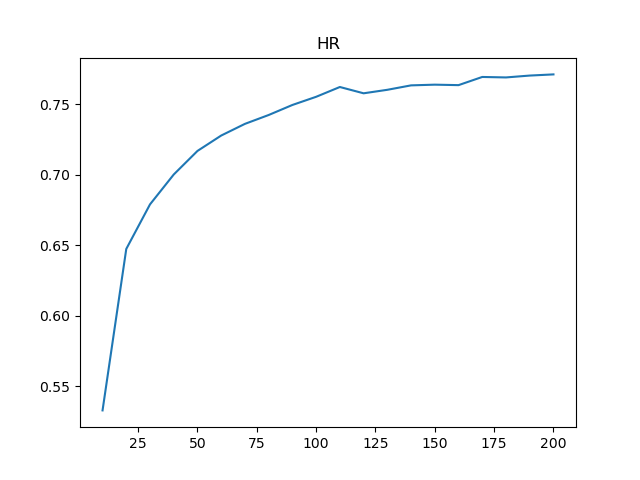
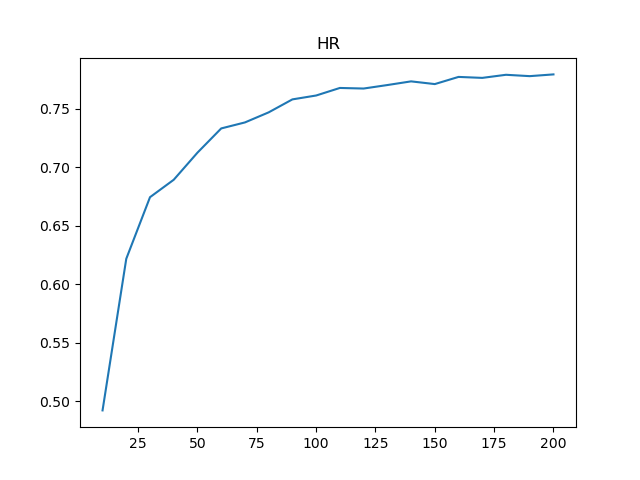
修正main方法和utils中的evaluate方法

diff --git a/model.py b/model.py
@@ -33,21 +33,18 @@ class SASRec(nn.Module):
         # 以下分别是多头注意力机制和FFN的layerNorm、dropout和layer
         self.layerNorm_of_multi_head_attention_layers = nn.ModuleList()
         self.multi_head_attention_layers = nn.ModuleList()
-        self.dropout_of_multi_head_attention_layers = nn.ModuleList()
 
         self.layerNorm_of_FFN_layers = nn.ModuleList()
         self.FFN_layers = nn.ModuleList()
-        self.dropout_of_FFN_layers = nn.ModuleList()
 
+        self.drop = nn.Dropout(dropout_rate)
         # 根据块的数量构建block
         for _ in range(num_of_blocks):
             self.layerNorm_of_multi_head_attention_layers.append(nn.LayerNorm(hidden_units, eps=1e-8))
             self.multi_head_attention_layers.append(nn.MultiheadAttention(hidden_units, num_of_heads, dropout_rate))
-            self.dropout_of_multi_head_attention_layers.append(nn.Dropout(dropout_rate))
 
             self.layerNorm_of_FFN_layers.append(nn.LayerNorm(hidden_units, eps=1e-8))
             self.FFN_layers.append(FFN(hidden_units, dropout_rate))
-            self.dropout_of_FFN_layers.append(nn.Dropout(dropout_rate))
 
     def sasRecBlock(self, i, inputs, attention_mask):
         # 根据原论文构建sasRecBlock
@@ -56,14 +53,14 @@ class SASRec(nn.Module):
         inputs_norm = self.layerNorm_of_multi_head_attention_layers[i](inputs)
         attention_output, _ = self.multi_head_attention_layers[i](inputs_norm, inputs, inputs,
                                                                   attn_mask=attention_mask)
-        attention_output = self.dropout_of_multi_head_attention_layers[i](attention_output)
+        attention_output = self.drop(attention_output)
         # residual connection 残差连接
         attention_output += inputs
 
         # 先进行layerNorm然后再进行FFN最后再进行dropout
         inputs_norm = self.layerNorm_of_FFN_layers[i](attention_output)
         outputs = self.FFN_layers[i](inputs_norm)
-        outputs = self.dropout_of_FFN_layers[i](outputs)
+        outputs = self.drop(outputs)
         # residual connection 残差连接
         outputs += attention_output
         outputs = torch.transpose(outputs, 0, 1)
@@ -119,4 +116,3 @@ class SASRec(nn.Module):
         # 根据原论文的预测公式进行预测
         predictions = final_feat.matmul(item_embs)
         return predictions
-

diff --git a/utils.py b/utils.py
@@ -1,3 +1,4 @@
+import copy
 import random
 import numpy as np
 from collections import defaultdict
@@ -47,9 +48,9 @@ def evaluate(model, dataset, sequence_length, isvalid=False):
 
     for u in users:
         # 判断是验证集还是测试集,如果训练集没有数据则跳过，如果验证集或者测试集没有数据则跳过
-        if isvalid and (len(train[u]) < 1 or len(test[u]) < 1):
+        if isvalid and (len(train[u]) < 1 or len(valid[u]) < 1):
             continue
-        elif not isvalid and (len(train[u]) < 1 or len(valid[u]) < 1):
+        elif not isvalid and (len(train[u]) < 1 or len(test[u]) < 1):
             continue
 
         # 初始化序列 根据原论文 如果真实交互的序列未达到指定步长，要使用填充项，即0进行填充 例如seq = [0,0,0,0,0,0,0,0,0,0,0,0,0,0,0,item]
@@ -70,8 +71,11 @@ def evaluate(model, dataset, sequence_length, isvalid=False):
 
         # 取出训练集中的物品交互序列
         rated = set(train[u])
-        # 将测试集中的物品加入到候选物品集中
-        item_idx = [test[u][0]]
+        # 将物品加入到候选物品集中
+        if isvalid:
+            item_idx = [valid[u][0]]
+        else:
+            item_idx = [test[u][0]]
 
         # 在这里模仿pmixer的代码根据100个数量 选择候选物品集
         for _ in range(100):

diff --git a/main.py b/main.py
@@ -1,4 +1,6 @@
 import time
+
+import numpy as np
 import torch
 from model import SASRec
 from utils import *
@@ -63,7 +65,7 @@ if __name__ == '__main__':
     batch_size = 128
     epochs = 200
     hidden_units = 50
-    dropout_rate = 0.3
+    dropout_rate = 0.5
     num_of_blocks = 2
     num_of_heads = 1
     learning_rate = 0.001
@@ -110,6 +112,7 @@ if __name__ == '__main__':
             adam_optimizer.step()
 
         if epoch % 10 == 0:
+            model.eval()
             epoch_list.append(epoch)
             NDCG, HR = evaluate(model, [train_data, valid_data, test_data, user_num, item_num], sequence_length)
             NDCG_list.append(NDCG)
@@ -117,10 +120,12 @@ if __name__ == '__main__':
             print("epoch: ", epoch, " NDCG: ", NDCG, " HR: ", HR)
             f.write(f"epoch: {epoch}, NDCG: {NDCG},  HR: {HR},  loss: {loss.item()}\n")
             f.flush()
+            NDCG, HR = evaluate(model, [train_data, valid_data, test_data, user_num, item_num], sequence_length,True)
+            print("(validate)epoch: ", epoch, " NDCG: ", NDCG, " HR: ", HR)
+            model.train()
     f.close()
 
     plot_and_save(epoch_list, NDCG_list, "NDCG", "./saved_results/NDCG.png")
     plot_and_save(epoch_list, HR_list, "HR", "./saved_results/HR.png")
     print("Finished....")
     plt.close()
-
